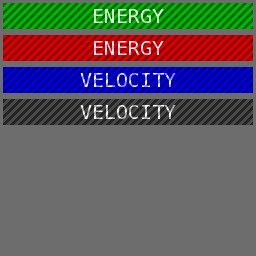
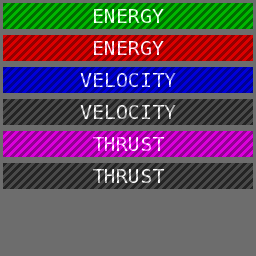
mätare

Changed region(s): [[0.0, 0.5, 1.0, 0.75]]

diff --git a/client/player.c b/client/player.c
@@ -14,8 +14,12 @@ struct {
 } camera;
 
 static DARNIT_TILE *powermeter;
+static DARNIT_TILE *velocitymeter;
+static DARNIT_TILE *thrustmeter;
 static DARNIT_TILESHEET *powerts;
 static double power;
+static double thrust;
+static double velocity;
 
 extern struct ClientObject *obj;
 extern double coordinate_scale;
@@ -37,6 +41,8 @@ void camera_init(int focus_object) {
 void load_player_stuff_once() {
 	powerts = d_render_tilesheet_load("res/powermeter.png", 256, 32, DARNIT_PFORMAT_RGBA8);
 	powermeter = d_render_tile_new(2, powerts);
+	velocitymeter = d_render_tile_new(2, powerts);
+	thrustmeter = d_render_tile_new(2, powerts);
 	compass.ring = d_render_circle_new(30, 2);
 	compass.x = DISPLAY_WIDTH - 60;
 	compass.y = 60;
@@ -210,7 +216,12 @@ void player_draw_icon_autoedge(int icon, int x, int y) {
 
 int player_draw_hud() {
 	char text[32];
+
+	/* Remove to activate meters */
 	power = 0.5;
+	thrust = 0.75;
+	velocity = 0.50;
+
 	d_render_offset(0,0);
 	d_render_tile_set(powermeter, 0, 0);
 	d_render_tile_set(powermeter, 1, 1);
@@ -221,6 +232,26 @@ int player_draw_hud() {
 	d_render_tile_tilesheet_coord_set(powermeter, 0, 0, 0, power * 256, 32);
 	d_render_tile_tilesheet_coord_set(powermeter, 1, power * 256, 32, 256 - power * 256, 32);
 	d_render_tile_draw(powermeter, 2);
+	
+	d_render_tile_set(velocitymeter, 0, 2);
+	d_render_tile_set(velocitymeter, 1, 3);
+	d_render_tile_move(velocitymeter, 0, 0, 40);
+	d_render_tile_move(velocitymeter, 1, velocity * 256, 40);
+	d_render_tile_size_set(velocitymeter, 0, velocity * 256, 32);
+	d_render_tile_size_set(velocitymeter, 1, 256 - velocity * 256, 32);
+	d_render_tile_tilesheet_coord_set(velocitymeter, 0, 0, 64, velocity * 256, 32);
+	d_render_tile_tilesheet_coord_set(velocitymeter, 1, velocity * 256, 96, 256 - velocity * 256, 32);
+	d_render_tile_draw(velocitymeter, 2);
+	
+	d_render_tile_set(thrustmeter, 0, 4);
+	d_render_tile_set(thrustmeter, 1, 5);
+	d_render_tile_move(thrustmeter, 0, 0, 80);
+	d_render_tile_move(thrustmeter, 1, thrust * 256, 80);
+	d_render_tile_size_set(thrustmeter, 0, thrust * 256, 32);
+	d_render_tile_size_set(thrustmeter, 1, 256 - thrust * 256, 32);
+	d_render_tile_tilesheet_coord_set(thrustmeter, 0, 0, 128, thrust * 256, 32);
+	d_render_tile_tilesheet_coord_set(thrustmeter, 1, thrust * 256, 160, 256 - thrust * 256, 32);
+	d_render_tile_draw(thrustmeter, 2);
 	
 	d_render_circle_draw(compass.ring);
 	
